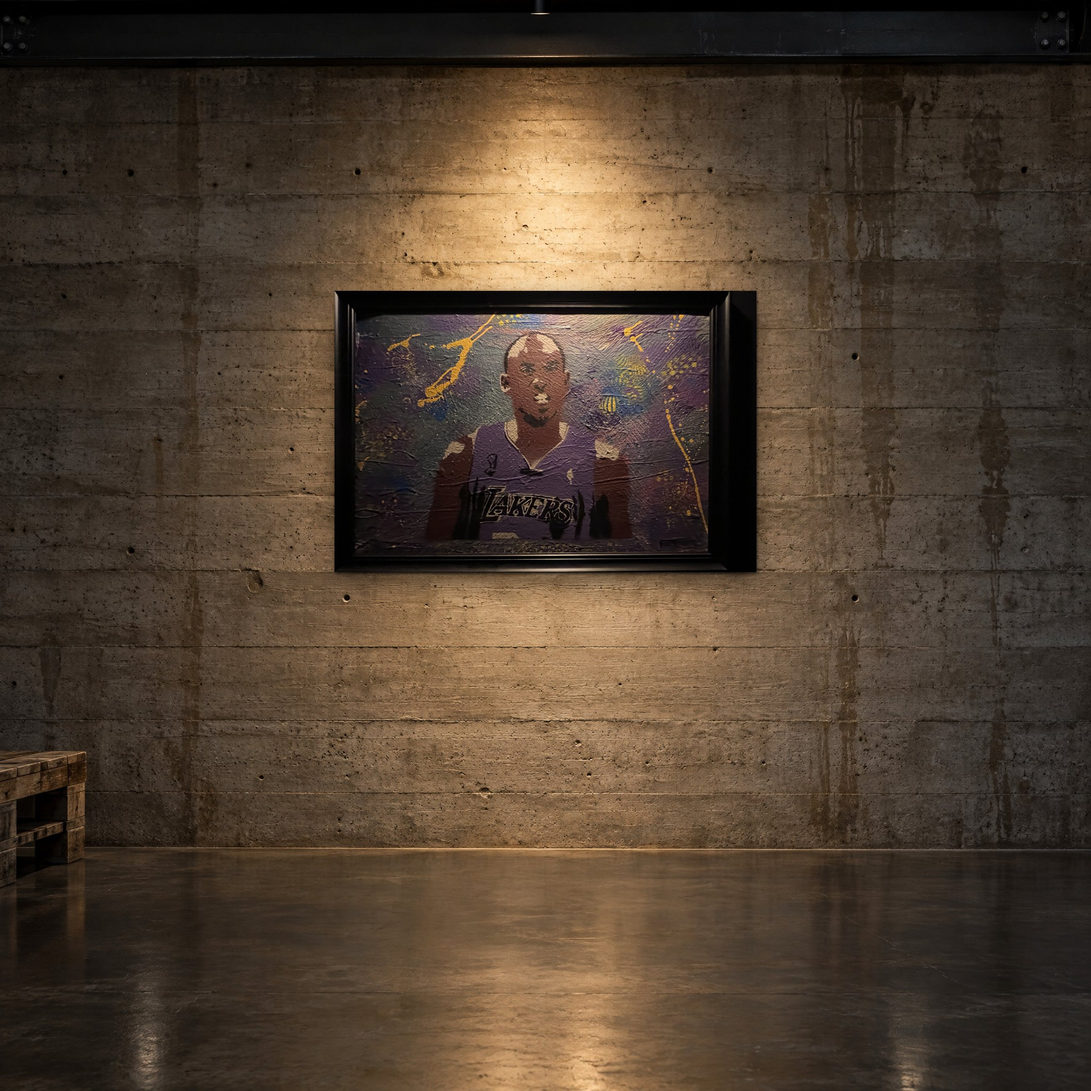
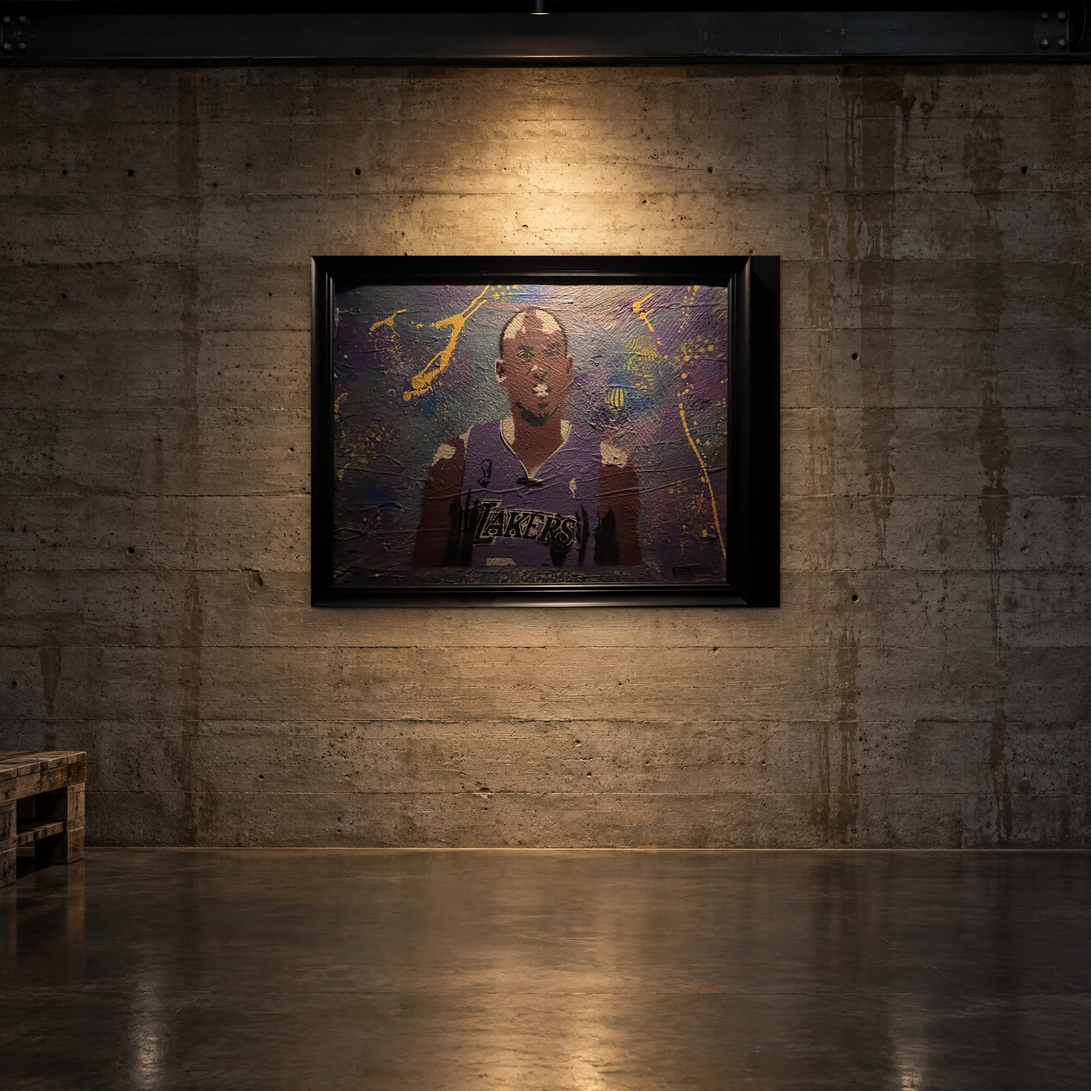
Open Heart is 24 × 24, Purple & Gold is 40 × 30
Re-render both on the warehouse wall at their real sizes and update
the Stripe product descriptions to match. The returns copy now refunds
"the full painting price" instead of a fixed $480, since the large
pieces are $720.

Claude-Session: https://claude.ai/code/session_015duu2mxyZctHv8VGpV9Sao

Changed region(s): [[0.2804, 0.2181, 0.7477, 0.5919]]

diff --git a/src/components/Policies.jsx b/src/components/Policies.jsx
@@ -34,7 +34,7 @@ const sections = [
     items: [
       <>You can return a painting within 14 days of delivery. Email {email} first, before sending anything back.</>,
       <>The painting must come back in the same condition, in its original packaging, with its certificate of authenticity. You pay return shipping and must insure it for the full purchase price.</>,
-      <>Once it arrives back in the same condition, we refund the $480 painting price. The original $50 shipping isn't refunded.</>,
+      <>Once it arrives back in the same condition, we refund the full painting price. The original $50 shipping isn't refunded.</>,
       <>If your painting arrives damaged, email {email} within 7 days of delivery with photos of the painting and the box, and keep all the packaging (the carrier needs it for the insurance claim). We'll arrange a repair or a full refund, shipping included.</>,
       <>Approved refunds go back to your original payment method.</>,
     ],

diff --git a/src/data/paintings.js b/src/data/paintings.js
@@ -221,7 +221,7 @@ export const paintings = [
     id: 'open-heart',
     title: 'Open Heart',
     year: 2022,
-    dimensions: '24 × 30 in',
+    dimensions: '24 × 24 in',
     medium: 'Acrylic and Mixed Texture',
     framing: 'Framed (gold frame included)',
     price: '$480',
@@ -269,7 +269,7 @@ export const paintings = [
     id: 'purple-and-gold',
     title: 'Purple & Gold',
     year: 2022,
-    dimensions: '24 × 30 in',
+    dimensions: '40 × 30 in',
     medium: 'Spray Paint, Acrylic, and Mixed Texture',
     framing: 'Framed (black frame included)',
     price: '$480',
